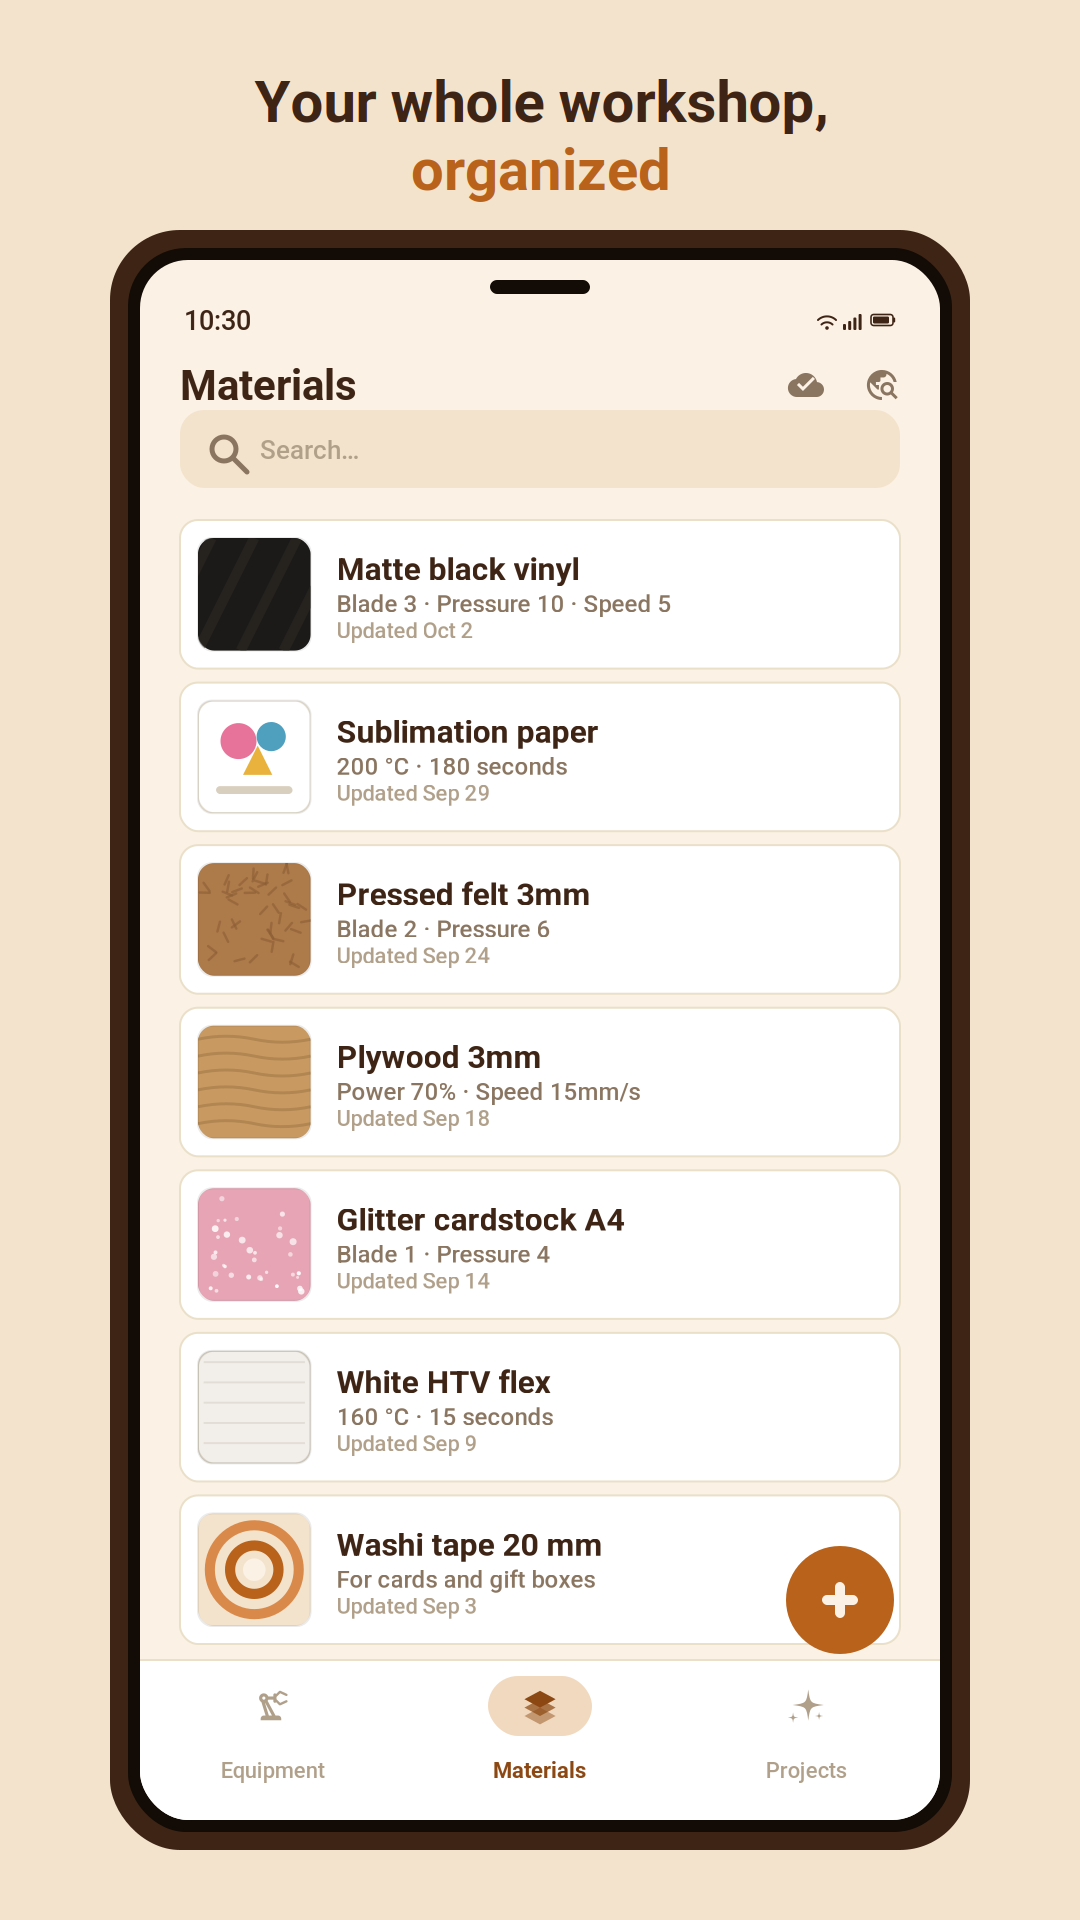
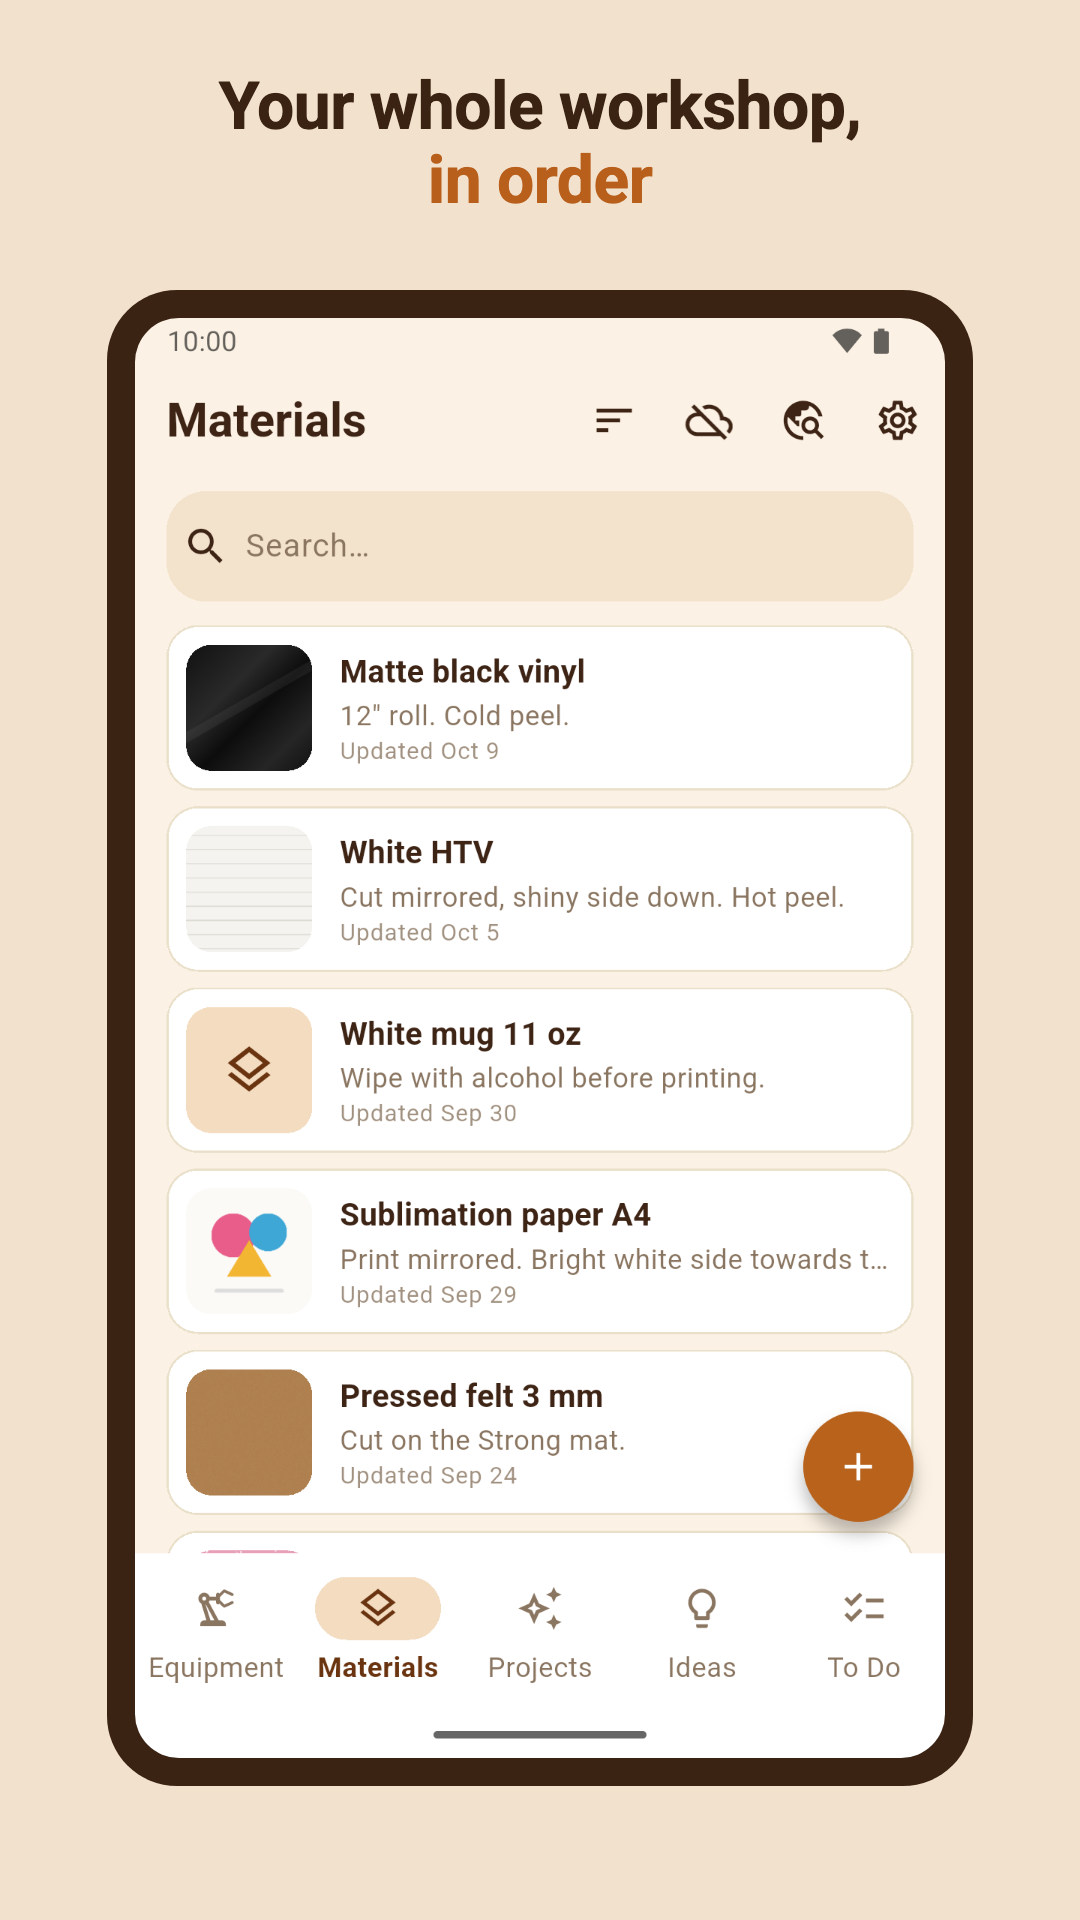
docs: screenshot dall'app vera, app in sette lingue

Changed region(s): [[0.0917, 0.0312, 0.9167, 0.9688]]

diff --git a/index.html b/index.html
@@ -30,7 +30,7 @@
       <h1>Il quaderno del tuo <span>laboratorio creativo</span></h1>
       <p class="sub">Lama e forza per ogni materiale, temperature e tempi della pressa, i passaggi di ogni progetto: tutto quello che scrivevi su carta, in ordine e sempre con te.</p>
       <a class="store-badge" href="https://play.google.com/store/apps/details?id=it.craftfolio.app"><img src="assets/google_play_it.png" alt="Disponibile su Google Play"></a>
-      <p class="store-note">Per Android, in italiano e in inglese.</p>
+      <p class="store-note">Per Android, in italiano, inglese, tedesco, francese, spagnolo, portoghese e polacco.</p>
     </div>
     <div class="shot"><img src="assets/screen_materials_it.png" alt="Elenco dei materiali in Craftfolio"></div>
   </div>

diff --git a/en/index.html b/en/index.html
@@ -30,7 +30,7 @@
       <h1>The notebook of your <span>creative workshop</span></h1>
       <p class="sub">Blade and force for every material, heat press temperatures and times, the steps of every project: everything you used to write on paper, organized and always with you.</p>
       <a class="store-badge" href="https://play.google.com/store/apps/details?id=it.craftfolio.app"><img src="../assets/google_play_en.png" alt="Get it on Google Play"></a>
-      <p class="store-note">For Android, in English and Italian.</p>
+      <p class="store-note">For Android, in English, Italian, German, French, Spanish, Portuguese and Polish.</p>
     </div>
     <div class="shot"><img src="../assets/screen_materials_en.png" alt="Materials list in Craftfolio"></div>
   </div>
